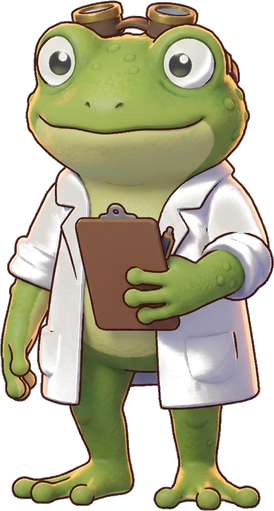
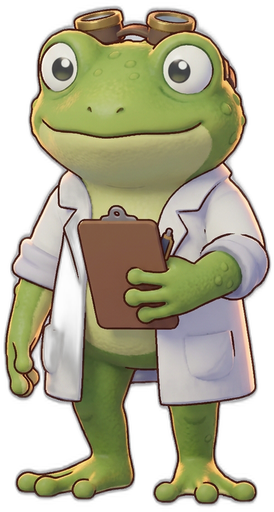
sync from Cowork: assets/professor.png,index.html

diff --git a/index.html b/index.html
@@ -3,7 +3,7 @@
 <head>
 <meta charset="utf-8">
 <meta name="viewport" content="width=device-width,initial-scale=1,viewport-fit=cover,user-scalable=no">
-<title>CroakyMon Gotta Catch Them All! v0.15.0</title>
+<title>CroakyMon Gotta Catch Them All! v0.15.1</title>
 <!-- Playful display + UI fonts (loaded by the tablet browser) -->
 <link rel="preconnect" href="https://fonts.googleapis.com">
 <link rel="preconnect" href="https://fonts.gstatic.com" crossorigin>
@@ -50,7 +50,7 @@
 
 <div id="stage"><div id="frame">
   <canvas id="c" width="360" height="640"></canvas>
-  <div id="note">v0.15.0</div>
+  <div id="note">v0.15.1</div>
   <div id="topbar"><button id="muteBtn">SOUND: ON</button></div>
   <div id="hud">
     <div class="pad" id="pad">
@@ -66,11 +66,11 @@
 </div></div>
 <script>
 "use strict";
-// CroakyMon Gotta Catch Them All! — v0.15.0
+// CroakyMon Gotta Catch Them All! — v0.15.1
 // Additions this version: varied creature designs (dragon whelp, lightning bird,
 // sprout turtle, ink squid), VFX for every move, WebAudio SFX + light music loop.
 
-const VERSION = "0.15.0";
+const VERSION = "0.15.1";
 // Default win-count to trigger an evolution when a species declares evolvesTo
 // but doesn't override the threshold.
 const DEFAULT_EVOLVE_AT_WINS = 3;
@@ -146,7 +146,7 @@ const Mon3D = (() => {
     camera.position.set(0, 1.2, 5.5);
     camera.lookAt(0, 1.0, 0);
     // Lights: key + fill + rim, tuned for saturated cartoon materials.
-    // Values increased for v0.15.0 — earlier setup was reading dark on OLED tablets.
+    // Values increased for v0.15.1 — earlier setup was reading dark on OLED tablets.
     const key = new THREE.DirectionalLight(0xffffff, 2.4);
     key.position.set(3, 4, 4);
     scene.add(key);
@@ -368,7 +368,7 @@ const Audio = (() => {
       htmlAudio = new window.Audio(url);
       htmlAudio.loop = true;
       htmlAudio.volume = 0.35;
-      htmlAudio.addEventListener("error", () => { failedUrls.add(url); htmlAudio = null; startSynthMusic(mood); });
+      htmlAudio.addEventListener("error", () => { failedUrls.add(url); htmlAudio = null; startMusic(mood); });
       const p = htmlAudio.play();
       if (p && p.catch) p.catch(() => { /* autoplay blocked; will retry on gesture */ });
       htmlAudioMood = mood;
@@ -379,8 +379,12 @@ const Audio = (() => {
     if (htmlAudio) { try { htmlAudio.pause(); htmlAudio.src = ""; } catch(e){} htmlAudio = null; htmlAudioMood = null; }
   }
   function startMusic(mood) {
-    // Prefer the mp3 for this mood. If it works, silence the synth path.
-    if (startMp3(mood)) { stopSynthMusic(); return; }
+    // Always stop the synth first — belt-and-braces against dupes.
+    stopSynthMusic();
+    // If the current mp3 URL isn't a known failure, prefer mp3. Only fall
+    // through to the synth when the mp3 is impossible for this mood.
+    if (startMp3(mood)) return;
+    // Only reached if no GAME_MUSIC url is set, muted, or the URL already 404'd.
     startSynthMusic(mood);
   }
   function startSynthMusic(mood) {
@@ -426,7 +430,10 @@ const Audio = (() => {
     }
     // Schedule next loop
     const total = totalSteps * noteLen;
-    musicNodes.loopTimer = setTimeout(() => startSynthMusic(mood), total * 1000 - 100);
+    // Re-enter through startMusic so if the mp3 becomes available (e.g. user
+    // gestured, network recovered), it takes over from the synth on the next
+    // loop iteration instead of the synth self-perpetuating forever.
+    musicNodes.loopTimer = setTimeout(() => startMusic(mood), total * 1000 - 100);
   }
   function stopSynthMusic() {
     if (musicNodes.loopTimer) clearTimeout(musicNodes.loopTimer);
@@ -478,7 +485,7 @@ document.querySelectorAll("[data-k]").forEach(btn => {
 // ==============================================================
 // Game data
 // ==============================================================
-// Type chart. Ghost added in v0.15.0 (CryptyCrab). normal <-> ghost is 0.5 both
+// Type chart. Ghost added in v0.15.1 (CryptyCrab). normal <-> ghost is 0.5 both
 // ways (not the classical 0x) so a battle can never be un-winnable — this game
 // is for kids.
 const EFF = {
@@ -550,13 +557,13 @@ function applyManifest(manifest) {
       moves:   Array.isArray(entry.moves) && entry.moves.length ? entry.moves : (base.moves ? base.moves.slice() : ["Tackle"]),
       shape:   entry.shape || base.shape || "blob",
       starter: entry.starter != null ? !!entry.starter : (base.starter || false),
-      // v0.15.0 — sharing between per-kid games.
+      // v0.15.1 — sharing between per-kid games.
       // shared:true means "this creature belongs in BOTH Sam's and Charlie's
       // games". A future sync workflow will mirror shared entries between
       // the two repos; today it's metadata only.
       shared:  entry.shared != null ? !!entry.shared : (base.shared || false),
       displayName: entry.name || null,
-      // Evolution (v0.15.0): `evolvesTo` is a kebab slug of the next form.
+      // Evolution (v0.15.1): `evolvesTo` is a kebab slug of the next form.
       // `evolvesAtWins` is how many battle victories the party mon needs before
       // it transforms (default 3). `evolutionOf` marks a mon as reachable ONLY
       // via evolution — it is excluded from wild encounters.
@@ -693,7 +700,7 @@ function text(str, x, y, size=12, color="#fff", align="left") {
 }
 
 // ==============================================================
-// UI kit (v0.15.0) — rounded rects, type badges, pill buttons.
+// UI kit (v0.15.1) — rounded rects, type badges, pill buttons.
 // ==============================================================
 function rrect(x, y, w, h, r, fill, stroke, sw) {
   const rr = Math.min(r, w/2, h/2);
@@ -763,7 +770,7 @@ function pillButton(x, y, w, h, label, opts) {
 // ==============================================================
 // Tiles / houses
 // ==============================================================
-// ---- Town tile art (v0.15.0 rework) ----
+// ---- Town tile art (v0.15.1 rework) ----
 // Small deterministic PRNG so per-tile decorations (flowers, cracks) stay stable
 // across frames and don't shimmer.
 function hashRand(x, y, salt) {
@@ -996,7 +1003,7 @@ function drawMap() {
       drawRoof(x*TILE, y*TILE, "prof");
   }
 }
-// Chibi trainer sprite (v0.15.0) — outlined pixel-art style
+// Chibi trainer sprite (v0.15.1) — outlined pixel-art style
 function drawPlayer() {
   const p = game.player;
   let px, py;
@@ -1697,7 +1704,7 @@ function drawProfessorScreen() {
   text("← → pick    A: choose    B: leave", W/2, H - 26, 11, "#ffcf3a", "center");
 }
 function drawProfessor(cx, cy) {
-  // Prefer per-game portrait image when it's loaded (v0.15.0).
+  // Prefer per-game portrait image when it's loaded (v0.15.1).
   // Scaled to ~180px tall, centred on (cx, cy), soft ground shadow underneath.
   if (professorImg && professorImg.complete && professorImg.naturalWidth > 0) {
     const targetH = 180;
@@ -1841,7 +1848,7 @@ function doFightTurn(moveKey) {
     }
   );
 }
-// v0.15.0 — evolution
+// v0.15.1 — evolution
 // Returns the PascalCase key of the mon's next form, or null if none applies.
 function evolutionTargetFor(mon) {
   if (!mon || !mon.species) return null;
@@ -2085,7 +2092,7 @@ if (typeof GAME_TITLE_BG === "string" && GAME_TITLE_BG) {
   titleBgImg.onerror = () => { titleBgImg = null; };
   titleBgImg.src = GAME_TITLE_BG;
 }
-// Optional professor portrait (v0.15.0). Same lazy-load / graceful-fallback.
+// Optional professor portrait (v0.15.1). Same lazy-load / graceful-fallback.
 let professorImg = null;
 if (typeof GAME_PROFESSOR_IMG === "string" && GAME_PROFESSOR_IMG) {
   professorImg = new window.Image();
@@ -2355,7 +2362,7 @@ function drawHPBox(x, y, name, hp, maxHP) {
   text(`${hp}/${maxHP}`, x+162, y+6, 10, "#c9f0ff", "right");
 }
 // ==============================================================
-// CroakyDex (v0.15.0) — a proper grid + detail view
+// CroakyDex (v0.15.1) — a proper grid + detail view
 // ==============================================================
 function updateDex() {
   if (game.dexView !== "detail") {
